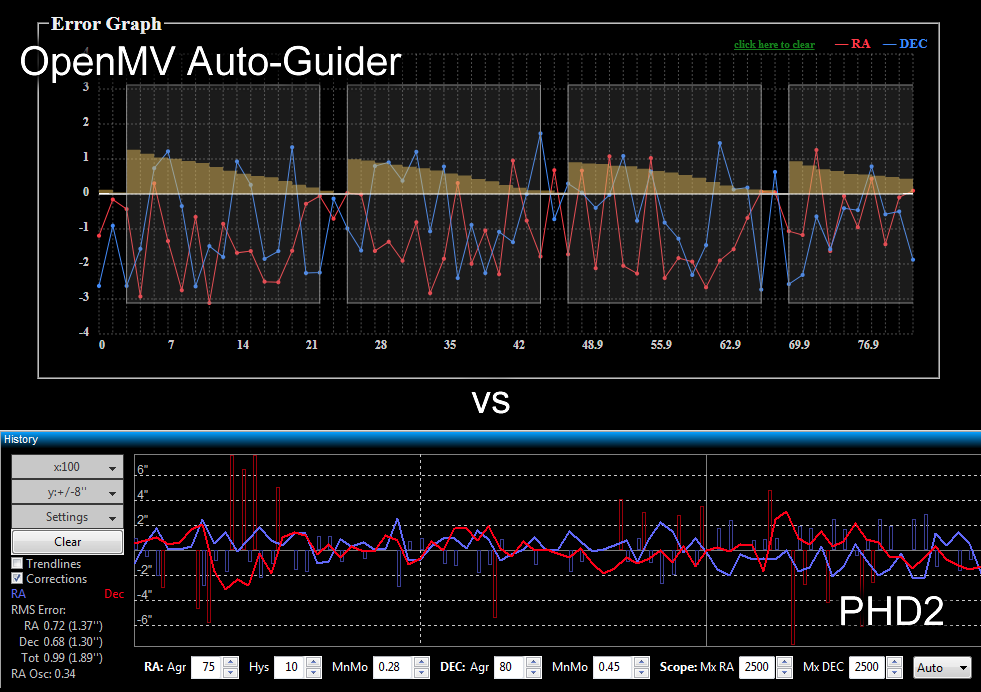
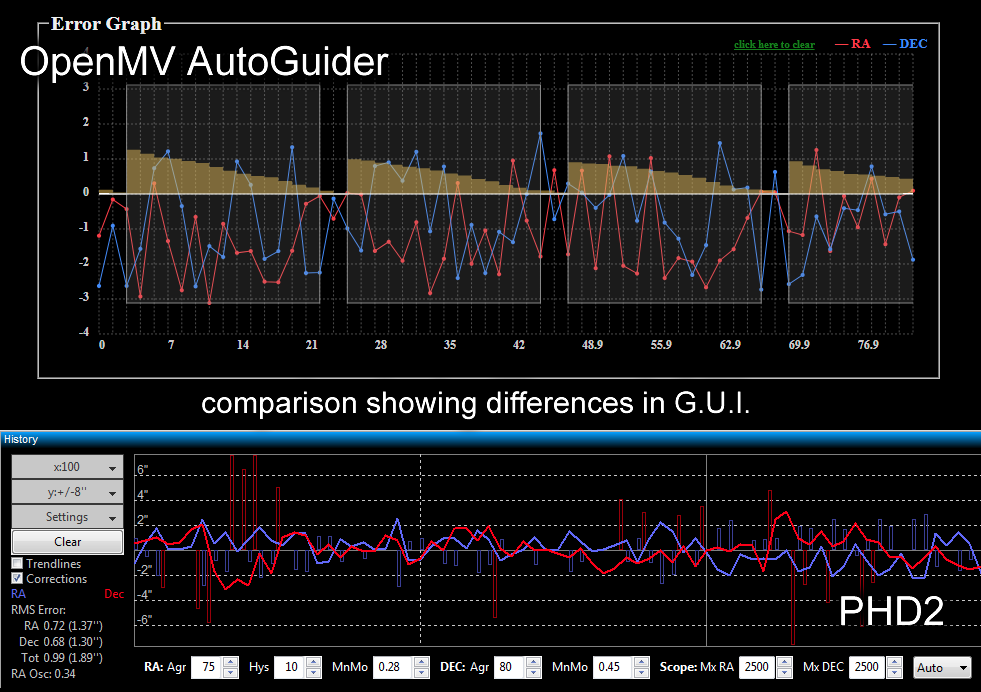
update autoguider webpage documentation

Changed region(s): [[0.2141, 0.5462, 0.7645, 0.6069], [0.2752, 0.0607, 0.4281, 0.1214]]

diff --git a/doc/Auto-Guider.md b/doc/Auto-Guider.md
@@ -1,3 +1,5 @@
+![](img/autoguider_withphone.jpg)
+
 Autoguiders are cameras that command a motorized equatorial telescope mount to track a particular star in the sky. This allows astrophotographers to take extremely long exposure photos, as the tracking will eliminate star-streaking and blurriness caused by incorrect motion (mechanical imperfections of the gears) and error in polar-alignment.
 
 [Wikipedia page on Autoguider](https://en.wikipedia.org/wiki/Autoguider)
@@ -52,9 +54,9 @@ All of these outputs are opto-isolated. This is a nice feature as all the equipm
 
 The web interface is a HTML page served from the microSD card using a HTTP server implemented in MicroPython. There is a configuration file that is used by the WiFi chipset to know which WiFi access point to connect to (with login credentials), if it fails to connect to an existing access point, it will default to becoming its own adhoc access point. Out in the field, the user can use a smartphone to access the web interface, either by using a hotspot, or by using the adhoc access point.
 
-![](img/autoguider_withphone.jpg)
+![](img/autoguider_screenshot.png)
 
-The web interface uses [jQuery](https://jquery.com/) and [jQuery-UI](https://jqueryui.com/) to make the nice looking UI elements. The error graph is draw using [Chartist by gionkunz](http://gionkunz.github.io/chartist-js/). The toast messages are generated using [js-toast by mlcheng](https://github.com/mlcheng/js-toast).
+The web interface uses [jQuery](https://jquery.com/) and [jQuery-UI](https://jqueryui.com/) to make the nice looking UI elements. The error graph is draw using [Chartist by gionkunz](http://gionkunz.github.io/chartist-js/). The toast messages are generated using [js-toast by mlcheng](https://github.com/mlcheng/js-toast). The usage of these modern JavaScript packages ensure that the GUI scales to any screen size very nicely.
 
 The image from the camera is shown as a SVG, not the true image, due to the bandwidth constraints of the slow WiFi chipset. Star coordinates and properties are sent over to the JavaScript, and the SVG simply draws some circles. The circle's size, brightness, and color, are changed according to the properties of the star. At a glance, the user can make quick inferences and decisions from just how the circle looks, without the actual image.
 
